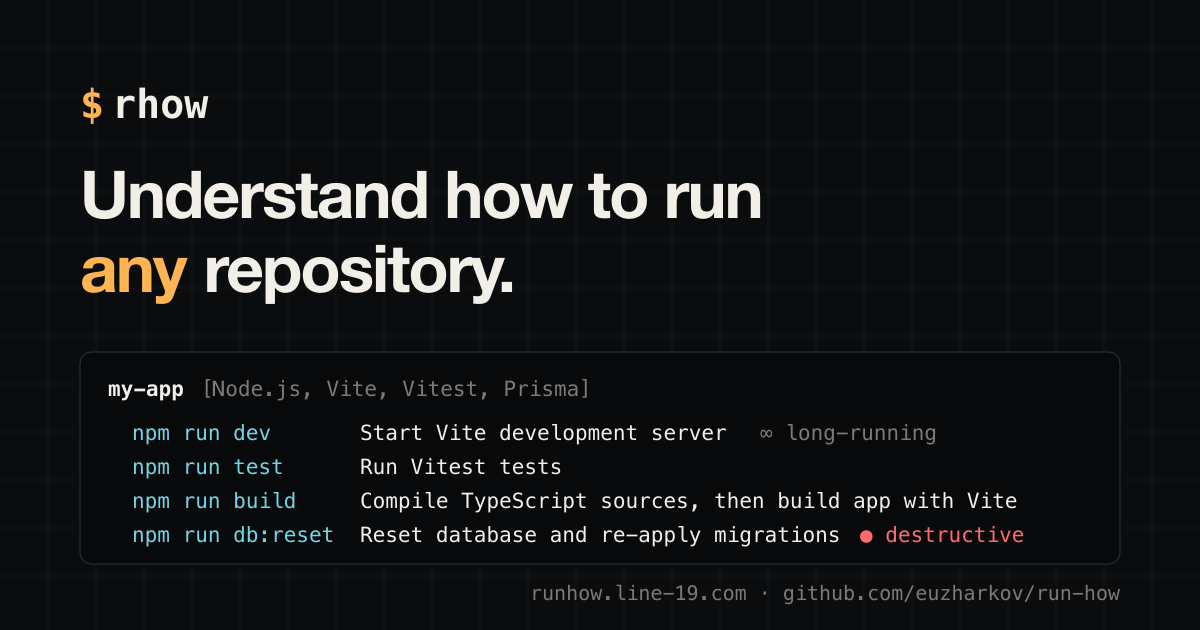
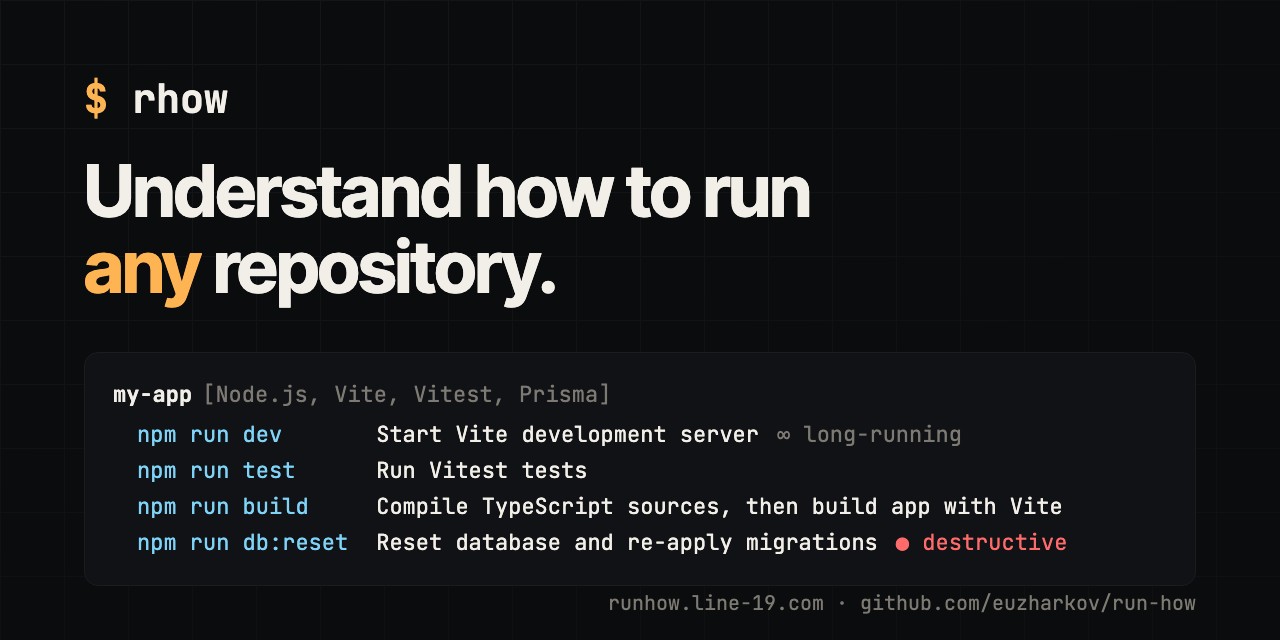
Add the Line 19 attribution and a 1280x640 social preview
README links the website and credits Line 19 at the top and in a footer.
og.png is re-rendered at GitHub's preferred social preview size from the
new og.html source, which loads the same fonts and colours as the site.

diff --git a/site/og.html b/site/og.html
@@ -1,0 +1,65 @@
+<!doctype html>
+<!-- Source of og.png and the GitHub social preview. Render with:
+     "/Applications/Google Chrome.app/Contents/MacOS/Google Chrome" --headless=new --hide-scrollbars \
+       --window-size=1280,640 --screenshot=site/og.png "file://$PWD/site/og.html"
+     Colours and fonts follow styles.css. -->
+<html lang="en">
+<head>
+<meta charset="utf-8">
+<title>rhow social preview</title>
+<link rel="preconnect" href="https://fonts.googleapis.com">
+<link rel="preconnect" href="https://fonts.gstatic.com" crossorigin>
+<link href="https://fonts.googleapis.com/css2?family=Inter+Tight:wght@600;700&family=JetBrains+Mono:wght@400;700&display=block" rel="stylesheet">
+<style>
+  :root {
+    --bg: #0b0c0e; --bg-2: #101215; --line: #1a1c20; --grid: #141619;
+    --fg: #f2efe8; --fg-2: #b7b3aa; --fg-3: #7d7a73;
+    --accent: #ffb454; --cmd: #7fd3f7; --danger: #ff6b6b;
+    --sans: "Inter Tight", sans-serif; --mono: "JetBrains Mono", monospace;
+  }
+  * { margin: 0; padding: 0; box-sizing: border-box; }
+  html, body { width: 1280px; height: 640px; overflow: hidden; }
+  body {
+    background: var(--bg);
+    background-image:
+      linear-gradient(var(--grid) 1px, transparent 1px),
+      linear-gradient(90deg, var(--grid) 1px, transparent 1px);
+    background-size: 64px 64px;
+    color: var(--fg); font-family: var(--sans);
+    padding: 72px 84px 0;
+    position: relative;
+  }
+  body::before { content: ""; position: absolute; inset: 0;
+    background: radial-gradient(ellipse at 20% 0%, rgba(11,12,14,0) 0%, rgba(11,12,14,.55) 70%); }
+  .prompt { font-family: var(--mono); font-size: 40px; font-weight: 700; position: relative; }
+  .prompt span { color: var(--accent); }
+  h1 { font-size: 72px; line-height: 1.05; font-weight: 700; letter-spacing: -.02em; margin-top: 28px; position: relative; }
+  h1 em { font-style: normal; color: var(--accent); }
+  .term {
+    position: absolute; left: 84px; right: 84px; top: 352px;
+    background: var(--bg-2); border: 1px solid var(--line); border-radius: 14px;
+    padding: 24px 28px; font-family: var(--mono); font-size: 22px; line-height: 36px;
+  }
+  .proj { font-weight: 700; } .proj span { color: var(--fg-3); font-weight: 400; margin-left: 10px; }
+  table { border-collapse: collapse; margin-top: 4px; }
+  td { padding: 0 28px 0 0; white-space: nowrap; }
+  td.cmd { color: var(--cmd); padding-left: 24px; }
+  .tag { color: var(--fg-3); margin-left: 18px; } .tag.bad { color: var(--danger); }
+  .foot { position: absolute; right: 84px; bottom: 24px; font-family: var(--mono); font-size: 20px; color: var(--fg-3); }
+</style>
+</head>
+<body>
+  <div class="prompt"><span>$</span> rhow</div>
+  <h1>Understand how to run<br><em>any</em> repository.</h1>
+  <div class="term">
+    <div class="proj">my-app<span>[Node.js, Vite, Vitest, Prisma]</span></div>
+    <table>
+      <tr><td class="cmd">npm run dev</td><td>Start Vite development server<span class="tag">∞ long-running</span></td></tr>
+      <tr><td class="cmd">npm run test</td><td>Run Vitest tests</td></tr>
+      <tr><td class="cmd">npm run build</td><td>Compile TypeScript sources, then build app with Vite</td></tr>
+      <tr><td class="cmd">npm run db:reset</td><td>Reset database and re-apply migrations<span class="tag bad">● destructive</span></td></tr>
+    </table>
+  </div>
+  <div class="foot">runhow.line-19.com · github.com/euzharkov/run-how</div>
+</body>
+</html>

diff --git a/site/index.html b/site/index.html
@@ -17,8 +17,8 @@
   <meta property="og:description" content="A tiny read-only CLI that discovers how a project is meant to be run. No setup, no API keys, no command execution.">
   <meta property="og:url" content="https://runhow.line-19.com/">
   <meta property="og:image" content="https://runhow.line-19.com/og.png">
-  <meta property="og:image:width" content="1200">
-  <meta property="og:image:height" content="630">
+  <meta property="og:image:width" content="1280">
+  <meta property="og:image:height" content="640">
   <meta property="og:image:alt" content="A terminal showing rhow listing the commands of a project">
   <meta name="twitter:card" content="summary_large_image">
   <meta name="twitter:title" content="rhow: understand how to run any repository">

diff --git a/README.md b/README.md
@@ -2,6 +2,8 @@
 
 **How do I run or operate this repository?**
 
+Website: [runhow.line-19.com](https://runhow.line-19.com). Built by [Line 19](https://line-19.com).
+
 Enter any unfamiliar repository and run:
 
 ```bash
@@ -407,3 +409,7 @@ favourites, history, configuration UI or full-screen dashboard. No `.rhow.yml` r
 ## License
 
 MIT
+
+---
+
+RunHow is built by [Line 19](https://line-19.com).
